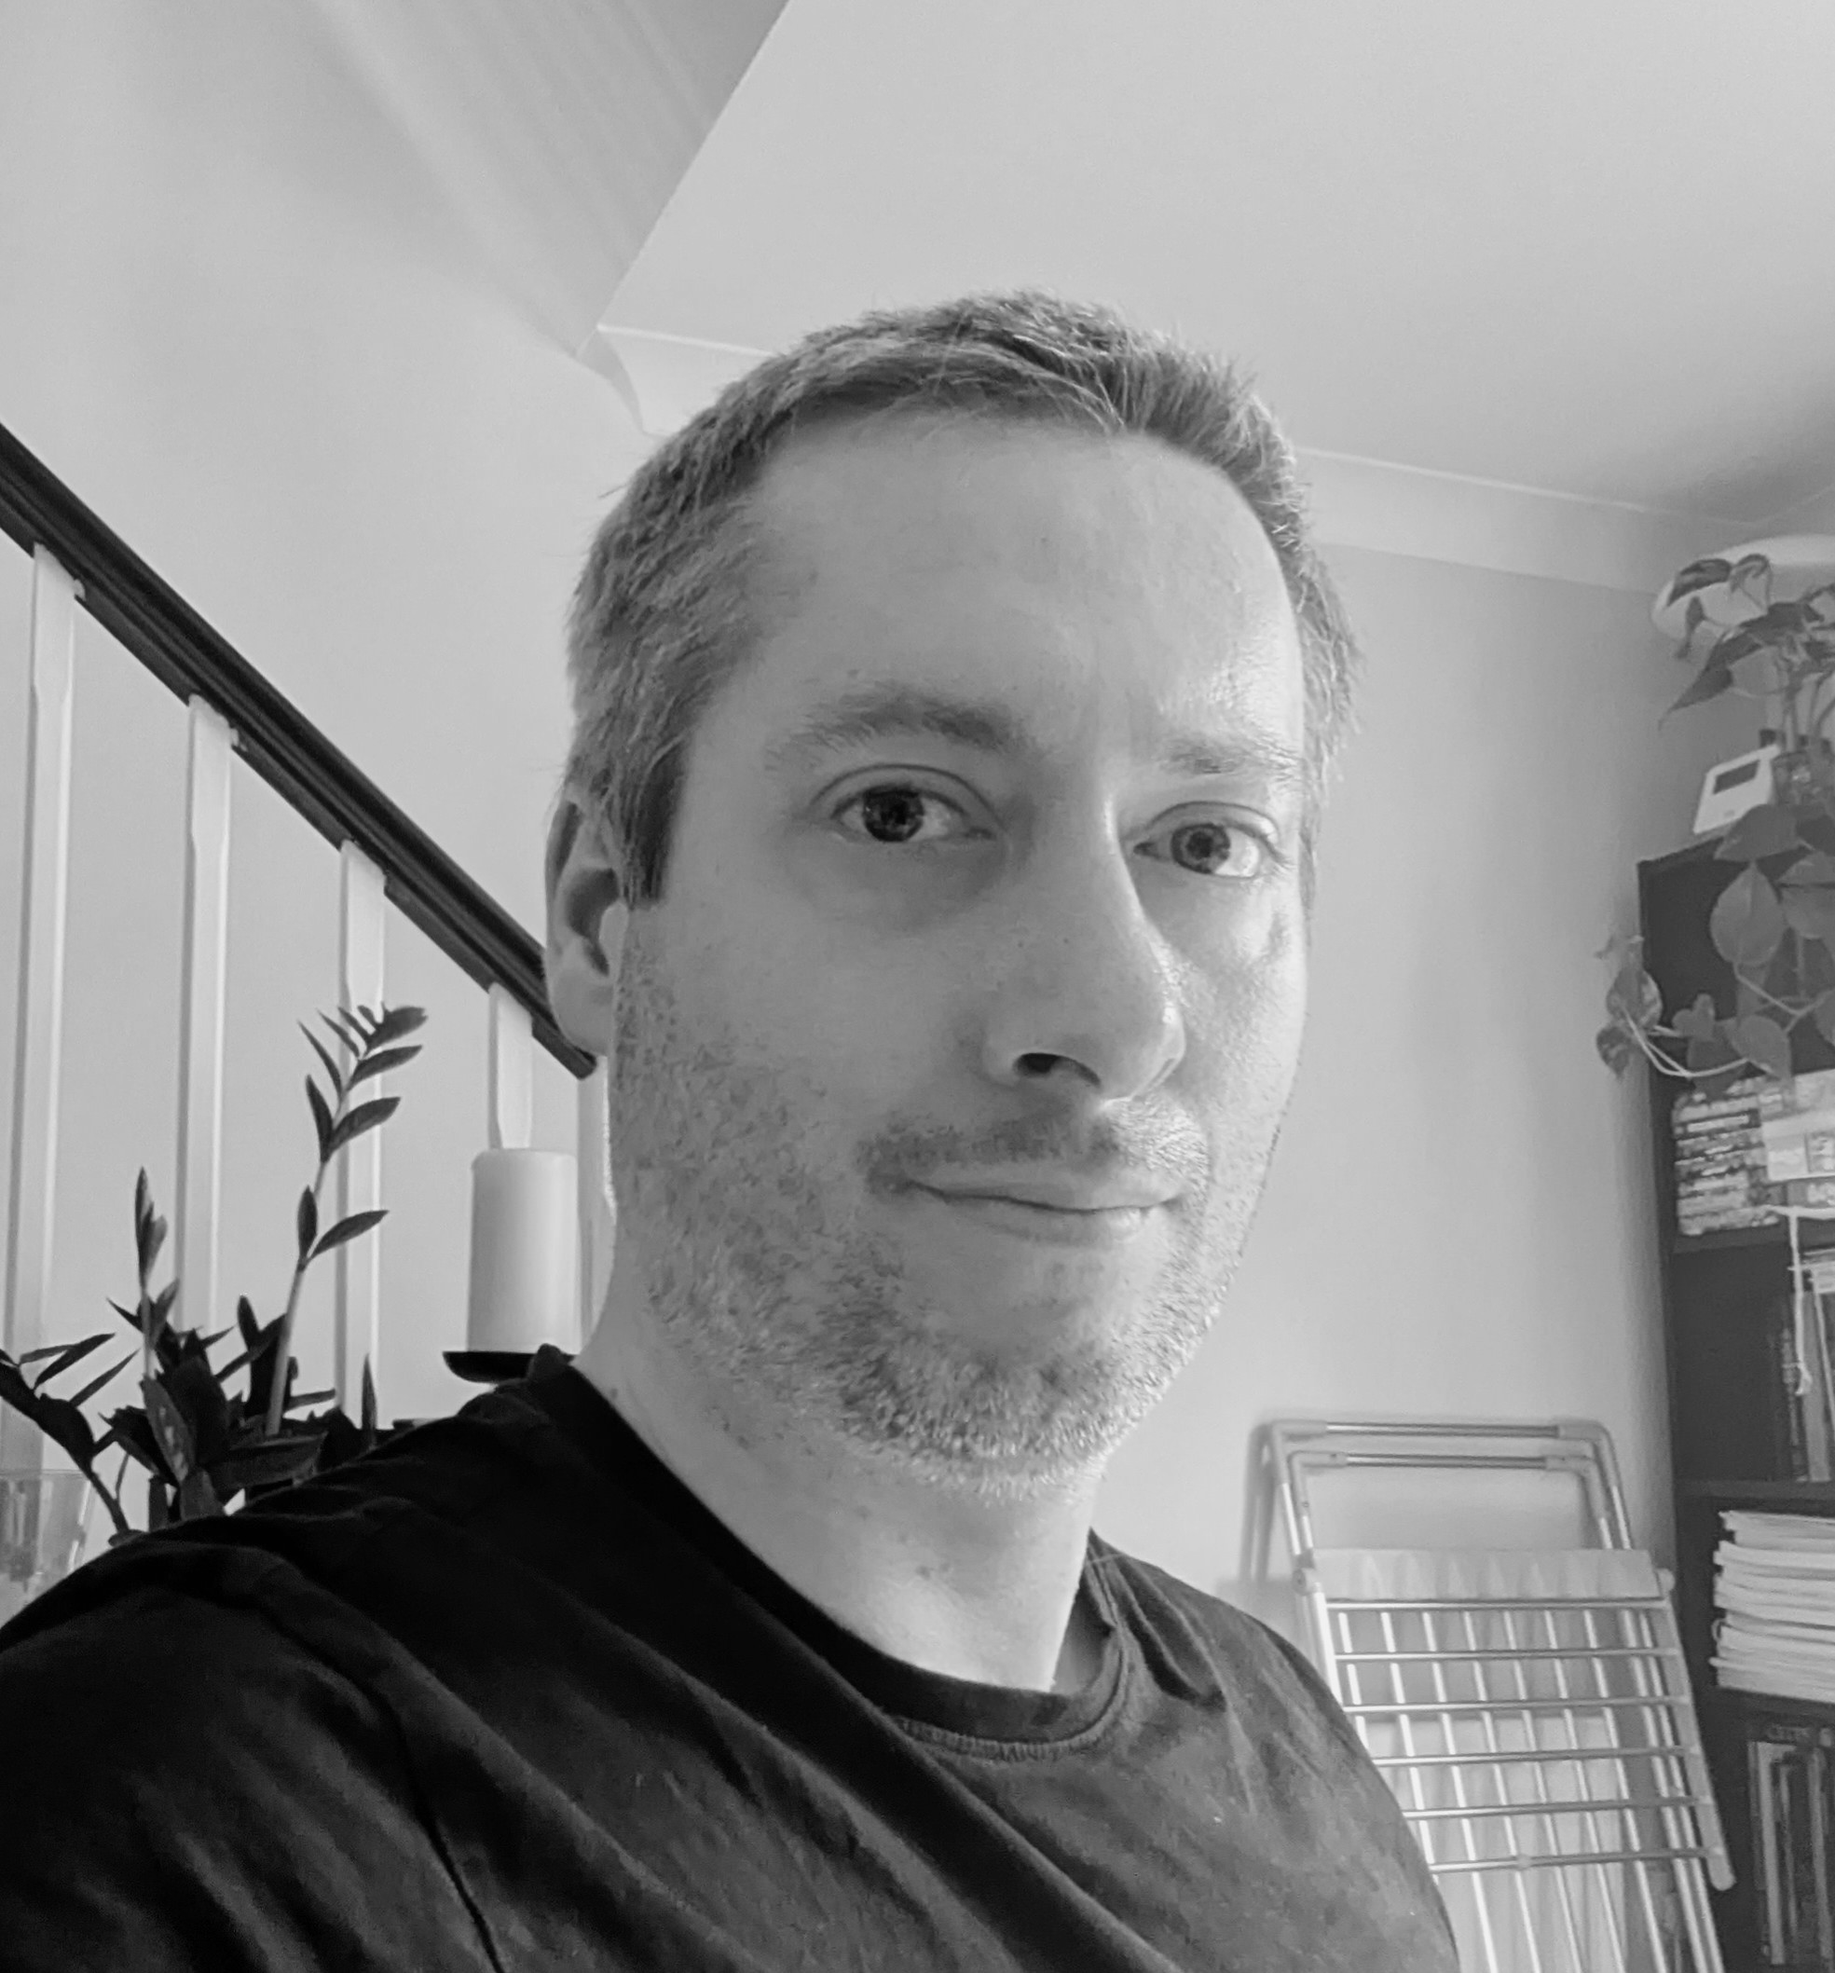
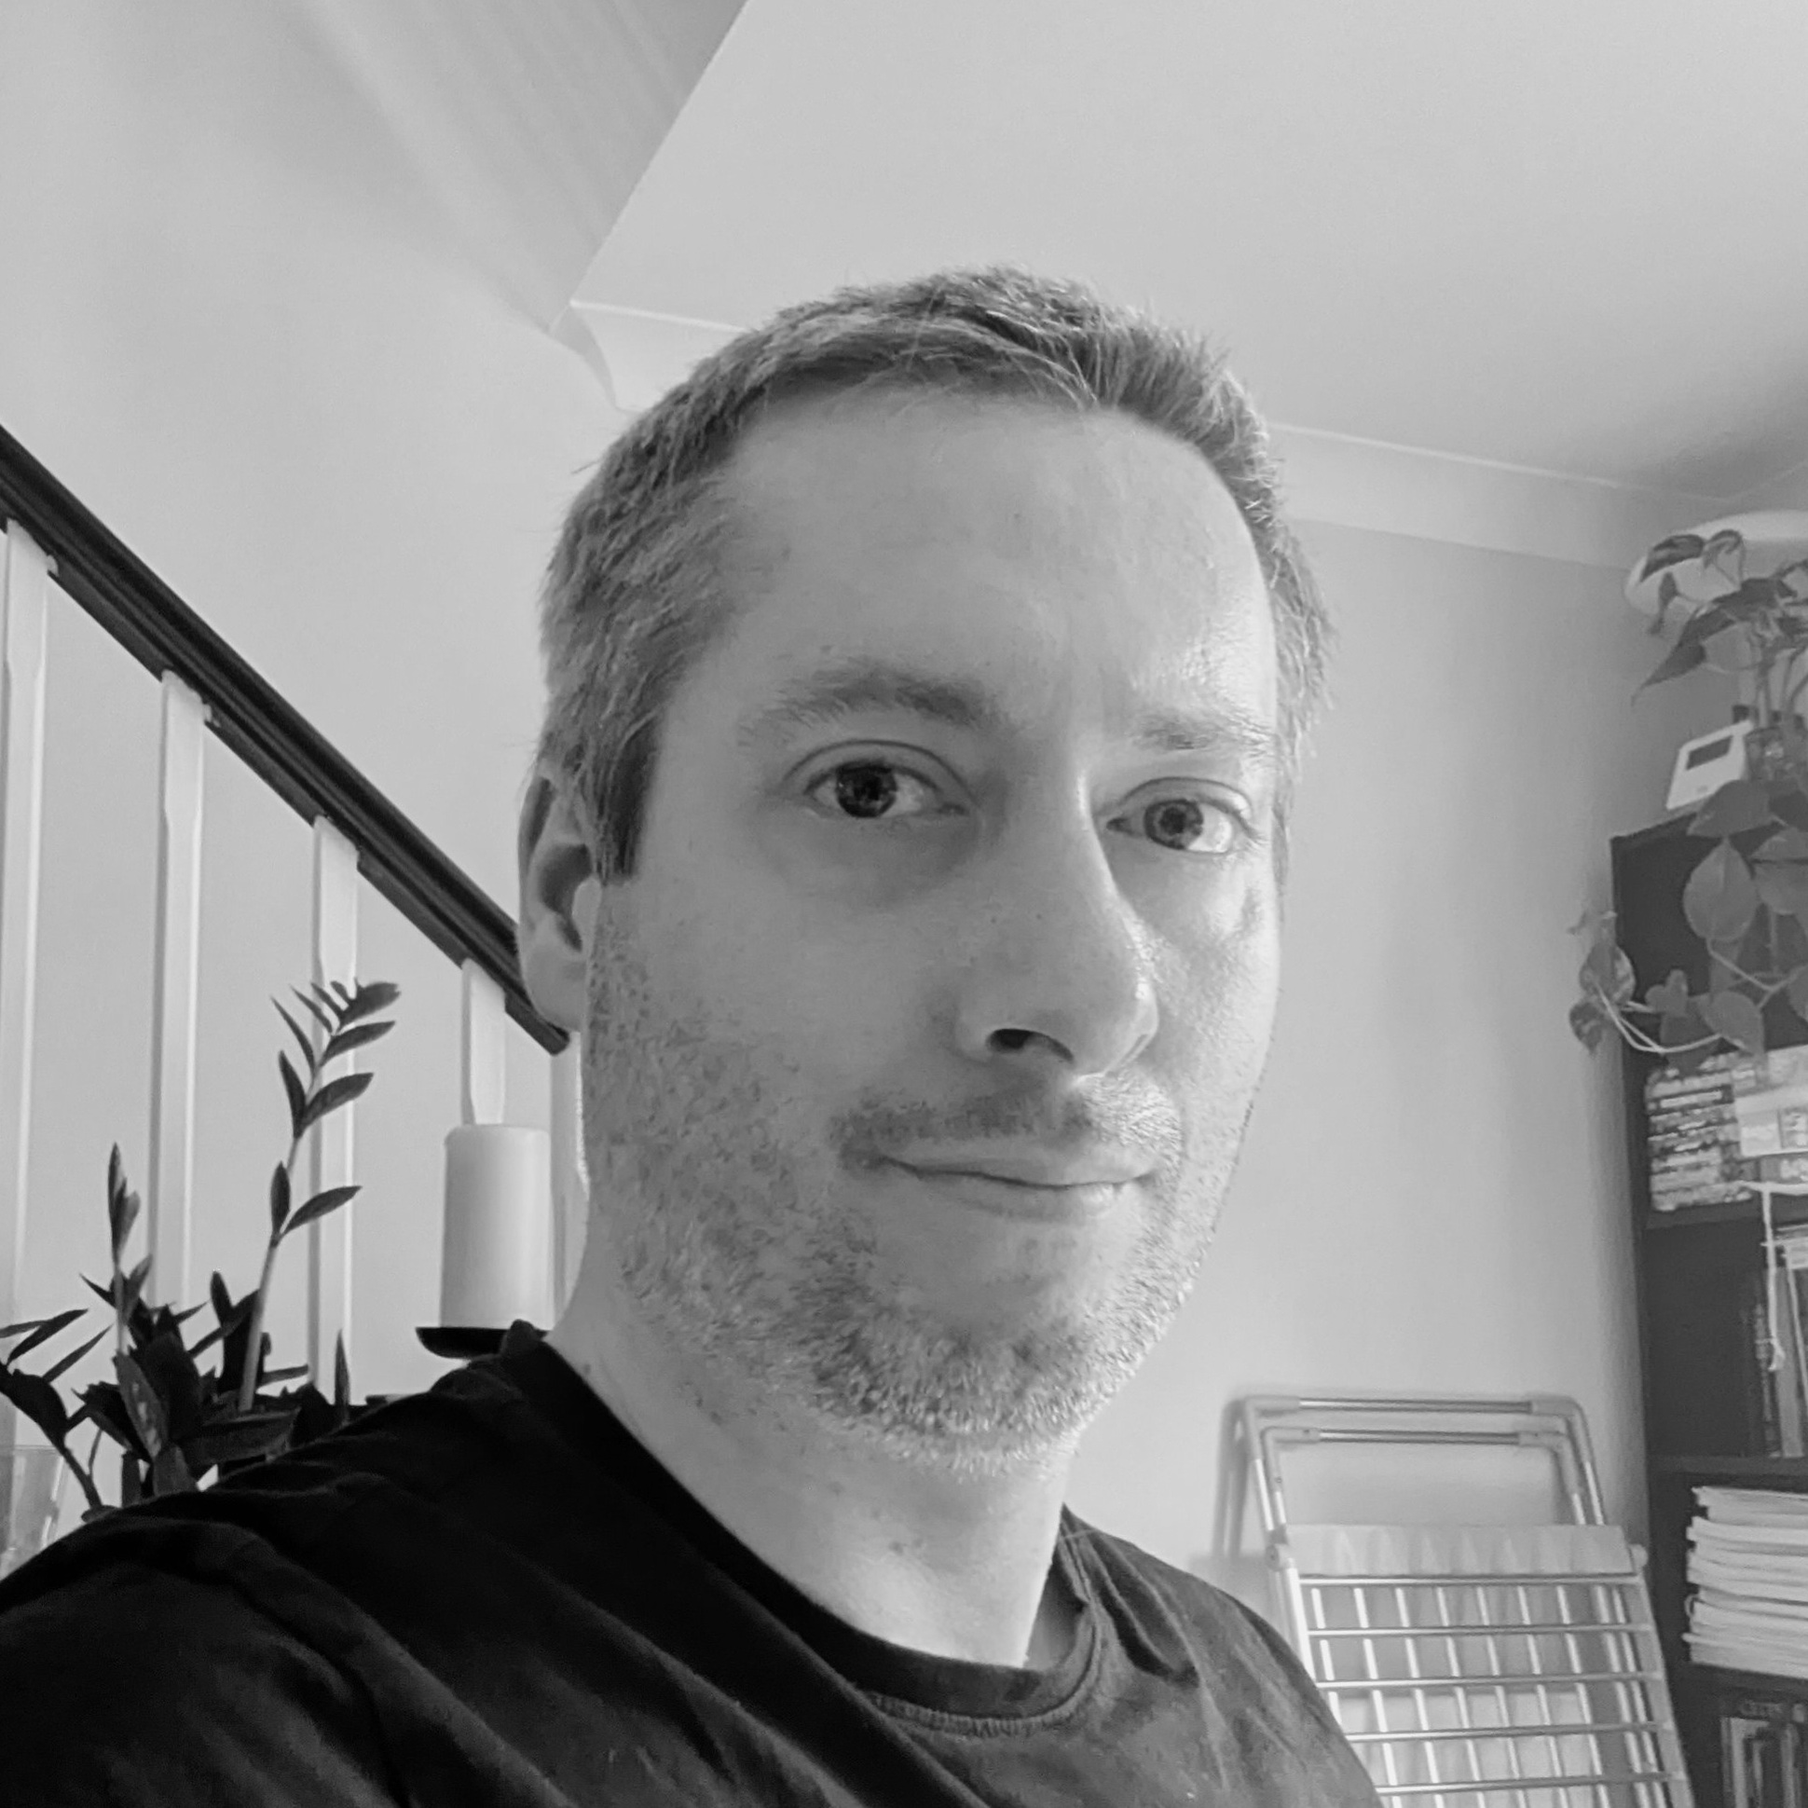
add picture and contact info to homepage

diff --git a/index.html b/index.html
@@ -32,8 +32,13 @@
 
     <main class="mainSection">
 	<h1>Welcome!</h1>
+	<img class="blogpic" src="media/010825_selfie_bw.jpg" alt="A black and white photo of the site's author" height="240" width="240">
+	<p class="picCap"><i>Pictured: The author of this website</i></p>
 	<p>I'm Antony, a 30-something factory worker and nerd from the East of England. I'm into open-source software (especially operating systems such as Linux and OpenBSD), scary stories, progressive politics and various other topics. I'll be writing whenever the mood strikes me and the subject matter will vary according to whatever the little goblins in my head manage to reach a consensus on.</p>
-	<p>Thanks for visiting.</p>
+	<h2>Contact information</h2>
+	<p>Email: antonyf@mailbox.org</p>
+	<a class="navlink" href="https://bsky.app/profile/antonyfrost.bsky.social">BlueSky</a>
+	<a class="navlink" href="https://mastodonapp.uk/@afb">Mastodon</a>
     </main>
     <section class=blogPreview>
 	<h2>Recent Entries</h2>
